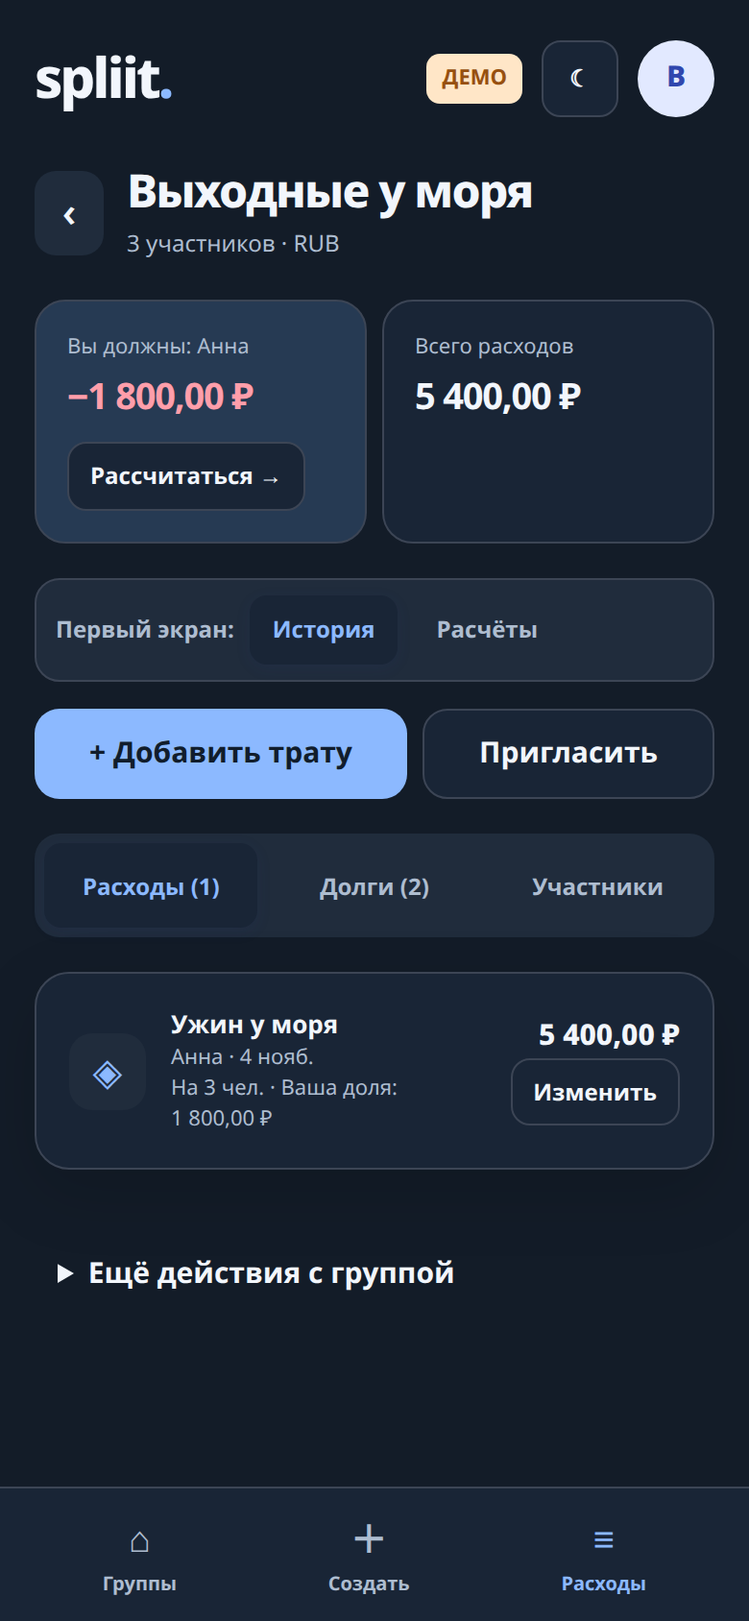
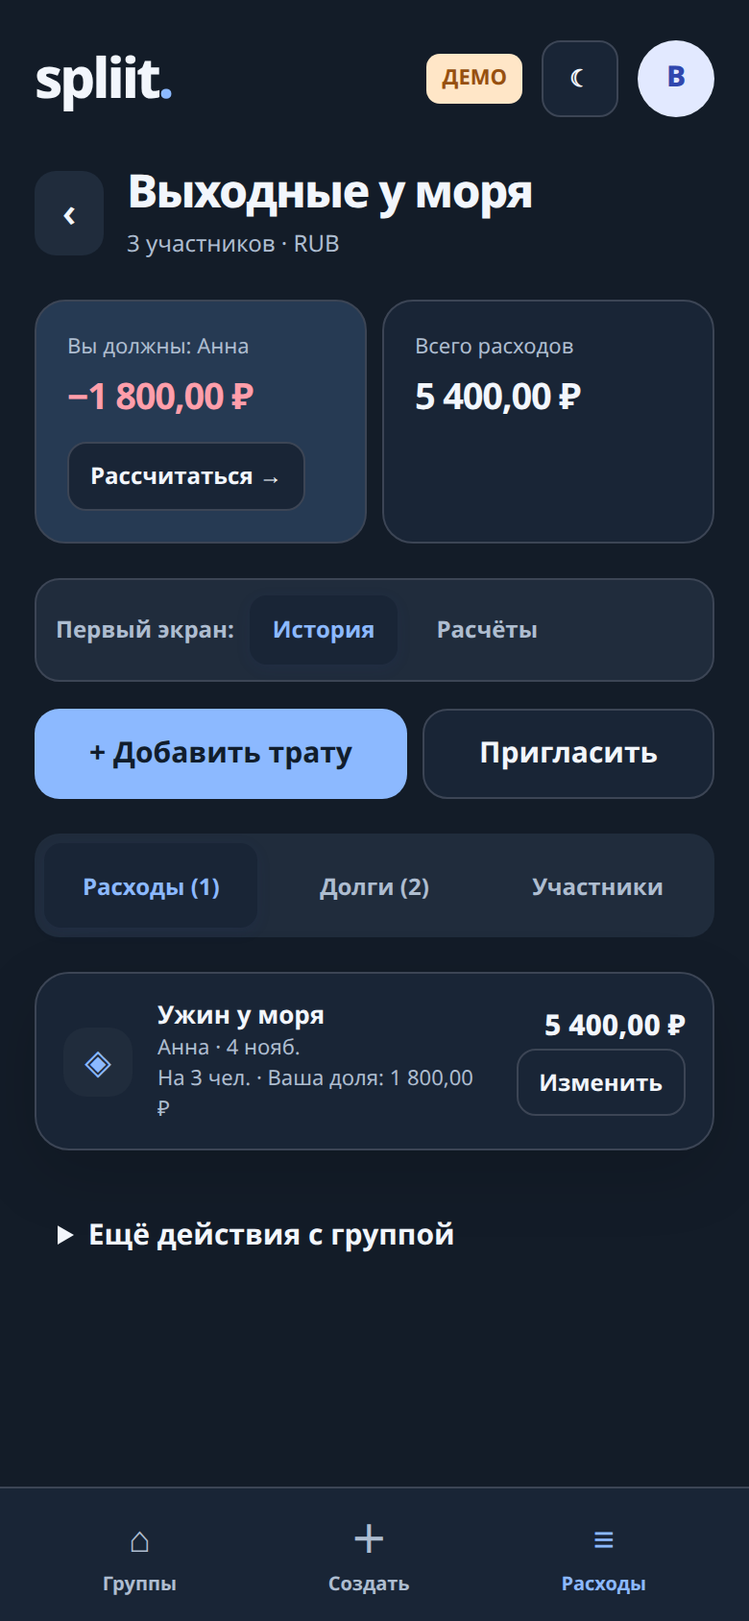
UX redesign round 4: three-screen mockup (invite hero, compact history list, modal motion)

diff --git a/web/app.js b/web/app.js
@@ -145,12 +145,12 @@ function myShare(d,e){
   return shares.find(s=>s.participantId===d.me)?.amount;
  }catch{return undefined;}
 }
-function renderExpenses(d){return d.expenses.length?`<div class="stack">${d.expenses.map(e=>{const payer=d.participants.find(p=>p.id===e.paidById)?.name||'Участник';
+function renderExpenses(d){return d.expenses.length?`<div class="expense-list">${d.expenses.map(e=>{const payer=d.participants.find(p=>p.id===e.paidById)?.name||'Участник';
  const count=(e.paidFor||[]).filter(p=>p.shares>0).length;
  let shareLine='';
  if(e.isReimbursement)shareLine='<small>Возврат долга</small>';
  else{const mine=myShare(d,e);if(mine!==undefined)shareLine=`<small>На ${count} чел. · Ваша доля: ${money(mine,d.group.currencyCode)}</small>`;}
- return `<div class="card expense"><div class="expense-icon">${e.isReimbursement?'⇄':'◈'}</div><div style="flex:1;min-width:0"><strong>${esc(e.title)}</strong><small>${esc(payer)} · ${fmtDate(e.expenseDate)}</small>${shareLine}</div><div class="amount">${money(e.amount,d.group.currencyCode)}${(e.createdByTgId===S.boot?.user?.id||d.isCreator)?`<div><button class="btn small ghost" data-action="${e.isReimbursement?'deleteExpenseDirect':'editExpense'}" data-id="${esc(e.id)}">${e.isReimbursement?'Удалить':'Изменить'}</button></div>`:''}</div></div>`}).join('')}</div>`:'<div class="card empty"><p>Расходов пока нет. Добавьте первый чек — Spleet сразу посчитает доли.</p><button class="btn primary" data-action="expense">Добавить первую трату</button></div>';}
+ return `<div class="expense expense-row"><div class="expense-icon">${e.isReimbursement?'⇄':'◈'}</div><div style="flex:1;min-width:0"><strong>${esc(e.title)}</strong><small>${esc(payer)} · ${fmtDate(e.expenseDate)}</small>${shareLine}</div><div class="amount">${money(e.amount,d.group.currencyCode)}${(e.createdByTgId===S.boot?.user?.id||d.isCreator)?`<div><button class="btn small ghost" data-action="${e.isReimbursement?'deleteExpenseDirect':'editExpense'}" data-id="${esc(e.id)}">${e.isReimbursement?'Удалить':'Изменить'}</button></div>`:''}</div></div>`}).join('')}</div>`:'<div class="card empty"><p>Расходов пока нет. Добавьте первый чек — Spleet сразу посчитает доли.</p><button class="btn primary" data-action="expense">Добавить первую трату</button></div>';}
 function renderBalances(data){
  const transfers=data.settlements||[];
  if(!transfers.length)return '<div class="card empty">Долгов нет. Все расчёты закрыты.</div>';
@@ -288,12 +288,29 @@ function viewJoin(){
  <div id="join-claim" class="field" hidden><label for="join-code">Личный код от организатора</label><input id="join-code" name="claimToken" autocomplete="off"/><p class="form-hint">Попросите у организатора код, чтобы занять своё место и сохранить уже внесённые траты.</p></div>`:''}</section>
  <button type="submit" class="btn primary full">Присоединиться к группе</button></form>`;
 }
+// Demo-only invite screen (?demoInvite=1). Synthetic data only: the group
+// name, the inviter and the "what joining means" list come from the demo
+// bootstrap, not from the server. The mesh-gradient hero is a static CSS
+// background behind the group name (paper-shaders style: cool blue with a
+// light mint tint); everything the user reads or taps sits on solid
+// surfaces. The primary action opens the real join form (viewJoin);
+// "back" dismisses the mockup for the session so it never loops.
+function viewDemoInvite(){
+ const inv=S.invitation||{};
+ const groupName=inv.groupName||'Группа';
+ const inviter=inv.inviterName||'Участник';
+ const n=D.participants.length;
+ return `<div class="mini-nav"><button class="back" data-action="demoInviteDismiss" aria-label="Назад">‹</button><div><h1 class="subheading">Приглашение</h1><div class="subtitle">${esc(groupName)}</div></div></div>
+ <section class="invite-hero-text"><div class="eyebrow">ВАС ПРИГЛАСИЛИ</div><h1 class="invite-group">${esc(groupName)}</h1><p class="invite-by">${esc(inviter)} приглашает вас вести общие расходы вместе.</p></section>
+ <section class="card invite-card"><ul class="invite-points"><li>Видеть все траты группы и кто за что заплатил</li><li>Добавлять свои чеки — доли посчитаются сами, до копейки</li><li>Рассчитываться с участниками по СБП, без лишних переводов</li></ul><div class="invite-meta"><span>${esc(inv.currencyCode||'RUB')}</span><span>${n} ${n===1?'участник':n<5?'участника':'участников'}</span></div><button class="btn primary full" type="button" data-action="join">Присоединиться к группе</button><button class="btn ghost full" type="button" data-action="demoInviteDismiss">Вернуться к своим группам</button></section>
+ <p class="fine invite-note">Вступив, вы увидите историю трат и свой баланс. Выйти из группы можно в любой момент.</p>`;
+}
 function viewPay(){return `${back('Pro для группы','30 дней · 75 Stars')}<div class="hero"><div class="eyebrow" style="color:#d4dcff">ГРУППОВОЙ ПРОПУСК</div><h2>Больше возможностей для всей компании</h2><p>Распознавание фискального QR с суммой чека и курсы валют ЦБ РФ.</p></div><div class="card"><p>Покупка активирует функции для всех участников вашей группы на 30 дней.</p><button class="btn primary full" data-action="pay">Оплатить 75 Stars</button><p class="fine">Фото-OCR пока не подключён. Сканирование QR считывает сумму и фискальные признаки, но не перечень товаров.</p></div>`;}
-function render(){document.body.classList.toggle('spliit-form-open',['expense','create','join','settings'].includes(S.page));let body='';if(S.page==='home')body=viewHome();else if(S.page==='create')body=viewCreate();else if(S.page==='group')body=viewGroup();else if(S.page==='expense')body=viewExpense();else if(S.page==='settings')body=viewSettings();else if(S.page==='invite')body=viewInvite();else if(S.page==='join')body=viewJoin();else if(S.page==='pro')body=viewPay();
+function render(){document.body.classList.toggle('spliit-form-open',['expense','create','join','settings'].includes(S.page));let body='';if(S.page==='home')body=viewHome();else if(S.page==='create')body=viewCreate();else if(S.page==='group')body=viewGroup();else if(S.page==='expense')body=viewExpense();else if(S.page==='settings')body=viewSettings();else if(S.page==='invite')body=viewInvite();else if(S.page==='join')body=viewJoin();else if(S.page==='demoInvite')body=viewDemoInvite();else if(S.page==='pro')body=viewPay();
  const screen=S.page==='group'?`group:${S.groupId}`:S.page;
  const moved=renderedScreen!==screen;
  renderedScreen=screen;
- root.innerHTML=`<main class="page">${header()}${body}</main>${bottom()}${S.notice?`<div role="alert" class="toast ${S.notice.bad?'error':''}">${esc(S.notice.msg)}${S.notice.bad?'<span class="toast-close" aria-hidden="true">✕</span>':''}</div>`:''}`;
+ root.innerHTML=`<main class="page${S.page==='demoInvite'?' invite-screen':''}">${header()}${body}</main>${bottom()}${S.notice?`<div role="alert" class="toast ${S.notice.bad?'error':''}">${esc(S.notice.msg)}${S.notice.bad?'<span class="toast-close" aria-hidden="true">✕</span>':''}</div>`:''}`;
  document.querySelectorAll('button').forEach(x=>x.disabled=!!S.loading);
  window.__spliitEnhancements?.render?.();
  updateExpensePreview();
@@ -303,7 +320,7 @@ function render(){document.body.classList.toggle('spliit-form-open',['expense','
   if(title){title.tabIndex=-1;title.focus({preventScroll:true});}
  }
 }
-async function loadHome(){const start=tg?.initDataUnsafe?.start_param||new URLSearchParams(location.search).get('startapp')||'';S.boot=await call('bootstrap',{startParam:start});S.homeLoadFailed=false;S.invitation=S.boot.invitation;S.inviteUnavailable=start.startsWith('inv_')&&!S.invitation;S.page='home';render();}
+async function loadHome(){const start=tg?.initDataUnsafe?.start_param||new URLSearchParams(location.search).get('startapp')||'';S.boot=await call('bootstrap',{startParam:start});S.homeLoadFailed=false;S.invitation=S.boot.invitation;S.inviteUnavailable=start.startsWith('inv_')&&!S.invitation;S.page=S.invitation?.demoInvite&&!S.demoInviteDismissed&&S.groupId!=='demo'?'demoInvite':'home';render();}
 async function openGroup(id){S.groupId=id;S.group=await call('group_get',{groupId:id});S.saveConfirmed=null;await refreshPending();S.page='group';S.tab=S.entryMode==='settlements'?'balances':'expenses';if(!S.loading)render();}
 function formData(id){return new FormData(document.getElementById(id));}
 function expensePayload(){const f=formData('expense-form'),mode=f.get('splitMode'),ids=f.getAll('participant');if(!ids.length)throw Error('Выберите хотя бы одного участника');const paidFor=ids.map(id=>{let shares=1;if(mode!=='EVENLY'){const raw=String(f.get(`weight_${id}`)||'0').replace(',','.');if(!/^\d+(\.\d{1,2})?$/.test(raw))throw Error('Некорректная доля');shares=mode==='BY_SHARES'?Number(raw):Math.round(Number(raw)*100);}return {participantId:id,shares};});const payload={groupId:S.groupId,expenseId:S.edit?.id||S.newExpenseId,title:String(f.get('title')),amount:amountInt(f.get('amount')),paidById:String(f.get('paidById')),splitMode:mode,paidFor,categoryId:Number(f.get('categoryId')||0),notes:String(f.get('notes')||'')};
@@ -474,6 +491,7 @@ root.addEventListener('click',e=>{const b=e.target.closest('[data-action]');if(!
  if(action==='settle'){openSettleModal({to:b.dataset.to,amount:Number(b.dataset.amount),opener:b});return;}
  if(action==='remind'){if(!confirm('Напомнить участнику о долге в личном сообщении Telegram? Не чаще одного раза в 24 часа.'))return;await call('remind_debt',{groupId:S.groupId,debtorId:b.dataset.debtor});toast('Напоминание отправлено');return;}
  if(action==='join'){S.page='join';return;}
+ if(action==='demoInviteDismiss'){S.demoInviteDismissed=true;S.invitation=null;S.page='home';return;}
  if(action==='invite'){S.page='invite';return;}
  if(action==='share'){const link=configLink(S.group.group.inviteToken);if(!link)throw Error('Ссылка не настроена');if(tg?.openTelegramLink)tg.openTelegramLink(`https://t.me/share/url?url=${encodeURIComponent(link)}`);else await navigator.clipboard.writeText(link);return;}
  if(action==='settings'){S.page='settings';return;}
@@ -585,6 +603,10 @@ const D={group:{id:'demo',name:'Выходные у моря',currencyCode:'RUB'
 // They make the lost-response and stale-list cases reproducible in the
 // browser demo. Never active outside the demo (demoCall only runs there).
 const demoFailParams=new URLSearchParams(location.search);
+// Demo-only invite mockup (?demoInvite=1): the demo bootstrap returns a
+// synthetic invitation so the invite screen can be shown without Telegram.
+// Real invite/join logic is untouched.
+const demoInvite=demoFailParams.get('demoInvite')==='1';
 let demoFailLostExpense=demoFailParams.get('demoFail')==='lostExpense';
 let demoFailRefreshPending=demoFailParams.get('demoFail')==='refreshFail';
 let demoFailRefreshArmed=false;
@@ -596,7 +618,7 @@ function demoView(){const totals=Object.fromEntries(D.participants.map(x=>[x.id,
  const shares=splitExpense({id:e.id,amount:e.amount,splitMode:e.splitMode,paidFor:e.paidFor});
  for(const s of shares)totals[s.participantId].paidFor+=s.amount;
 }for(const x of Object.values(totals))x.total=x.paid-x.paidFor;const debts=Object.entries(totals).map(([id,v])=>({id,total:v.total})).filter(x=>x.total<0),credits=Object.entries(totals).map(([id,v])=>({id,total:v.total})).filter(x=>x.total>0),transfers=[];for(const debt of debts)for(const credit of credits){const amount=Math.min(-debt.total,credit.total);if(amount>0){transfers.push({from:debt.id,to:credit.id,amount});debt.total+=amount;credit.total-=amount;}}return {group:{...D.group},me:'a',isCreator:true,participants:D.participants,expenses:[...D.expenses].reverse(),balances:totals,settlements:transfers,activities:[]};}
-async function demoCall(name,p){if(name==='bootstrap')return {user:{id:1,name:'Вы'},groups:[{id:D.group.id,name:D.group.name,currencyCode:D.group.currencyCode}],invitation:null,features:{betaFree:true,billingEnabled:false}};if(name==='group_get'){if(demoFailRefreshArmed){demoFailRefreshArmed=false;throw demoNetworkError();}return demoView();}if(name==='group_create'){D.group={id:'demo',name:p.name,currencyCode:p.currencyCode,information:p.information,inviteToken:'demo_inv',proUntil:0};D.participants=[{id:'a',name:'Вы',tgUserId:1},...p.participants.map((name,i)=>({id:'p'+i,name,tgUserId:null,claimToken:'demo'}))];D.expenses=[];return {groupId:'demo'};}if(name==='expense_upsert'){const id=p.expenseId||'exp_'+(''+Math.random()).replace('0.','').padEnd(36,'0');
+async function demoCall(name,p){if(name==='bootstrap')return {user:{id:1,name:'Вы'},groups:[{id:D.group.id,name:D.group.name,currencyCode:D.group.currencyCode}],invitation:demoInvite?{groupName:D.group.name,groupId:'demo',currencyCode:D.group.currencyCode,inviterName:'Анна',alreadyMember:false,demoInvite:true,unclaimed:[]}:null,features:{betaFree:true,billingEnabled:false}};if(name==='group_get'){if(demoFailRefreshArmed){demoFailRefreshArmed=false;throw demoNetworkError();}return demoView();}if(name==='group_create'){D.group={id:'demo',name:p.name,currencyCode:p.currencyCode,information:p.information,inviteToken:'demo_inv',proUntil:0};D.participants=[{id:'a',name:'Вы',tgUserId:1},...p.participants.map((name,i)=>({id:'p'+i,name,tgUserId:null,claimToken:'demo'}))];D.expenses=[];return {groupId:'demo'};}if(name==='expense_upsert'){const id=p.expenseId||'exp_'+(''+Math.random()).replace('0.','').padEnd(36,'0');
   // Validate the split BEFORE touching demo data: invalid manual
   // amounts/percentages are rejected, history and balances stay unchanged.
   splitExpense({id,amount:p.amount,splitMode:p.splitMode,paidFor:p.paidFor});

diff --git a/web/style.css b/web/style.css
@@ -146,3 +146,31 @@ h1[tabindex='-1']:focus { outline: none; }
 .save-status .actions{margin-top:10px}
 .spliit-kb-open .footbar{display:none}
 .spliit-kb-open .page{padding-bottom:calc(32px + env(safe-area-inset-bottom,0px))}
+
+/* Round 4: three-screen mockup — compact history list (Kobbe), invite hero,
+   settle modal motion. */
+.amount{font-variant-numeric:tabular-nums}
+.allocation-preview li strong{font-variant-numeric:tabular-nums}
+.expense-list{background:var(--white);border:1px solid var(--border);border-radius:var(--r);box-shadow:var(--shadow);overflow:hidden}
+.expense-list .expense{margin-bottom:0;padding:12px 14px}
+.expense-list .expense+.expense{border-top:1px solid var(--border)}
+.expense-list .expense-icon{width:36px;height:36px;font-size:18px}
+.btn{transition:filter .13s,transform .1s}
+.btn:active{transform:scale(.98);filter:brightness(.94)}
+@keyframes settle-in{from{opacity:0}to{opacity:1}}
+@keyframes settle-panel-in{from{opacity:0;transform:translateY(10px) scale(.985)}to{opacity:1;transform:none}}
+.settle-modal{animation:settle-in .18s ease-out}
+.settle-modal .advanced-panel{animation:settle-panel-in .18s ease-out}
+@media (prefers-reduced-motion:reduce){.settle-modal,.settle-modal .advanced-panel{animation:none}.btn{transition:none}}
+.invite-screen{background:radial-gradient(120% 70% at 12% 0%,#cfe0ff 0%,transparent 55%),radial-gradient(90% 60% at 92% 8%,#c8f2e0 0%,transparent 55%),radial-gradient(130% 90% at 50% 115%,#e6efff 0%,transparent 60%),linear-gradient(180deg,#f3f7ff,#eef3fb)}
+.tg-dark .invite-screen{background:radial-gradient(120% 70% at 12% 0%,#1d3355 0%,transparent 55%),radial-gradient(90% 60% at 92% 8%,#173a30 0%,transparent 55%),radial-gradient(130% 90% at 50% 115%,#16283f 0%,transparent 60%),linear-gradient(180deg,#131c28,#101825)}
+.invite-hero-text{padding:14px 2px 20px}
+.invite-group{font-size:31px;line-height:1.13;letter-spacing:-1.2px;margin:10px 0 8px}
+.invite-by{margin:0;color:var(--muted);font-size:14px}
+.invite-card{display:grid;gap:14px}
+.invite-points{list-style:none;margin:0;padding:0;display:grid;gap:10px}
+.invite-points li{display:flex;gap:10px;font-size:14px;line-height:1.45}
+.invite-points li::before{content:'✓';color:var(--good);font-weight:800;flex:none}
+.invite-meta{display:flex;gap:8px;flex-wrap:wrap}
+.invite-meta span{background:var(--app-soft);border-radius:99px;padding:5px 11px;font-size:12px;font-weight:750;color:var(--muted)}
+.invite-note{text-align:center}

diff --git a/web/native-ux.js b/web/native-ux.js
@@ -41,7 +41,7 @@ export function installNativeUX({S,closeTopModal}){
  function syncBackButton(){
   try{
    const B=T?.BackButton;if(!B)return;
-   const nested=['group','create','expense','join','invite','settings','pro'].includes(S.page);
+   const nested=['group','create','expense','join','invite','settings','pro','demoInvite'].includes(S.page);
    if(nested){
     if(!backBound){B.onClick?.(()=>{if(typeof closeTopModal==='function'&&closeTopModal())return;root.querySelector('.back')?.click();});backBound=true;}
     B.show?.();

diff --git a/docs/ux-redesign/README.md b/docs/ux-redesign/README.md
@@ -386,3 +386,118 @@ Mini App, группа «Выходные у моря»):
   имя/место уже состоящего участника) по-прежнему не доделывалась
   (см. второй заход). Тексты бота не переносились — не этот
   репозиторий.
+
+## Четвёртый заход — макет трёх экранов одной тестовой группы
+
+Выбор Mark 2026-11-05 ~14:29 (по второму мнению из разбора GradientDeck /
+upload.md): один макет на трёх экранах — (1) приглашение, (2) история с
+личным балансом, (3) окно возврата — и сравнение до/после на 320 и 390 px
+в светлой и тёмной теме. Референсы: Kobbe (тёплый нейтральный фон, тонкие
+разделители), Mollie (крупная сумма, короткая подпись), паттерны shadcn
+Empty / Alert Dialog, статичный mesh-градиент в духе paper-design/shaders.
+Денежная логика не тронута: `splitExpense`, `settlement-recovery.js`,
+`expense_upsert` и все поведения заходов 1–3 — как были.
+
+### 1. Приглашение — демо-макет (`?demoInvite=1`)
+
+В демо экран вступления невоспроизводим (`bootstrap` возвращает
+`invitation: null` — см. «Что не воспроизводится в демо»), поэтому макет
+построен как демо-путь с синтетическими данными, а не как настоящий
+join-поток: флаг `?demoInvite=1` заставляет демо-`bootstrap` вернуть
+приглашение («Выходные у моря», приглашает Анна, RUB, 3 участника);
+настоящие `viewJoin` / `participant_sync` не менялись. Экран:
+mesh-градиент (статичный CSS, холодный синий + лёгкая мята за названием
+группы; в тёмной теме — тёмные варианты тех же пятен), имя группы крупным
+кеглем, кто приглашает, три строки «что даёт вступление» и одно очевидное
+действие — «Присоединиться к группе» (открывает настоящую форму
+вступления). Всё, что читается и нажимается, — на сплошных поверхностях
+(белая карточка). «Назад» / «Вернуться к своим группам» — на список групп
+без зацикливания (флаг на сессию + не показывать приглашение после
+вступления). В Telegram `BackButton` на этом экране показывается
+(`native-ux.js`: `demoInvite` в списке вложенных экранов).
+
+### 2. История — компактный список вместо карточек (Kobbe)
+
+`renderExpenses` теперь рисует `.expense-list`: один контейнер с тонкой
+границей и тенью, внутри строки `.expense` с разделителем 1 px между
+соседними, плотнее (padding 12 px вместо 17 px у карточек, иконка 36 px
+вместо 40 px). Карточки остаются там, где им место: сводка баланса,
+важные состояния и пустая группа (`«Расходов пока нет…»` — по-прежнему
+карточка с кнопкой «Добавить первую трату»). Сохранено всё из заходов
+1–3: история — первый экран (вариант A), переключатель B, «Ваша доля»,
+контрольная строка, сводка «Вы должны −1 800,00 ₽ · 2 перевода», вкладки
+со счётчиками. **Исправлен пробел из разбора DESIGN.md:** у сумм истории
+не было `tabular-nums` (был только у долгов, метрик, поля ввода и
+модалки) — теперь `.amount` и доли в превью (`#allocation-preview li
+strong`) тоже с `tabular-nums`, суммы выровнены справа.
+
+### 3. Окно возврата — только движение
+
+Поведение 3-го захода не тронуто (стек «Назад», фокус на открыватель,
+Back/Esc/Отмена без записи, контракт `settlement-recovery.js`). Добавлено
+только: короткий отклик на нажатие у всех кнопок (`:active` —
+`scale(.98)`, 0,1 с) и плавное появление диалога (оверлей — fade 0,18 с,
+панель — подъём на 10 px + fade 0,18 с). При `prefers-reduced-motion`
+анимации отключены.
+
+### Скриншоты четвёртого захода
+
+Матрица `37`–`39` (имена в `before/` и `after/` совпадают):
+`37-invite` — до = прежняя форма вступления (код не менялся в этом
+заходе; нового экрана приглашения раньше не было), после = hero-макет;
+`38-history` — до = стопка карточек (снято со сборки 3-го захода),
+после = компактный список; `39-settle-modal` — до/после модалки.
+Каждый — 320/390 px × светлая/тёмная. Дополнительно:
+`38-history-two-390-light` — список из двух трат, виден разделитель;
+`40-tg-dark-invite-390`, `41-tg-dark-history-390`, `42-tg-dark-modal-390`
+— тёмная тема через `themeParams` Telegram (имитация, а не переключатель
+демо). Регрессия заходов 2–3 пересохранила кадры `03`, `04`, `09`, `12`,
+`13`, `21`, `29`, `31`, `34`, `36` — те же сцены, изменения только от
+компактного списка и `tabular-nums`.
+
+### Проверки четвёртого захода
+
+```bash
+# сервер (из корня репозитория, после npm run build):
+python -m http.server 8000 --bind 127.0.0.1 --directory dist
+# из ~/workspace/spleet-shots/ (Chromium headless shell 1187):
+node shots-round4-before.mjs  # до-кадры 38/39 со сборки 3-го захода (до правок)
+node shots-round4.mjs         # демо-слой: 37/37
+node shots-round4-tg.mjs      # имитация Telegram: 14/14
+node shots-round3.mjs         # регрессия захода 3 (демо): 35/35
+node shots-round3-tg.mjs      # регрессия захода 3 (Telegram): 21/21
+node shots-round2.mjs         # регрессия заходов 1–2: 34/34
+```
+
+Ожидаемые результаты: `37` — hero с именем группы, именем приглашающей
+(«Анна приглашает»), тремя пунктами, одной primary-кнопкой; фон —
+mesh-градиент (≥2 `radial-gradient`), карточка — сплошная (`background-image:
+none`) в обеих темах; без флага демо обычное; «Присоединиться» открывает
+форму вступления, «Вернуться» — список групп; `38` — `.expense-list`,
+разделитель `1px solid` между строками, padding 12 px, суммы
+`tabular-nums` и справа, баланс −1 800,00 ₽ не изменился, пустая группа —
+карточка; `39` — анимации `settle-in` / `settle-panel-in` при открытии,
+нажатие даёт `scale(.98)` и отпускается без записи, модалка остаётся
+открытой; `40`–`42` — тёмная тема через `themeParams` на всех трёх
+экранах, Back в Telegram закрывает модалку первым (фокус на открыватель,
+вкладка «Долги», записи нет). В каждом прогоне единственная ошибка
+консоли — 404 `/favicon.ico` (было и до). Попутно: сохранённый
+`shots-round3.mjs` не запускался — в нём не хватало импорта `dirname`
+(исправлен импорт, код проверок не менялся); при первой проверке
+`38`/`39` упали по вине самих проверок (NBSP в суммах, `matrix(1,…)` как
+финальное состояние transform) — код был верен, проверки поправлены.
+
+### Что честно не сделано в четвёртом заходе
+
+- Реальный WebView не проверялся (нет телефона в этой сессии) — см.
+  шаги ручной проверки в третьем заходе. Тёмная тема проверена двумя
+  путями (переключатель демо и `themeParams` в имитации), но не в
+  реальном Telegram.
+- Экран приглашения — демо-макет с синтетическими данными, а не
+  настоящий join-поток: реальное вступление по ссылке из Telegram
+  (включая просрочку и уже-состоящего участника) в демо по-прежнему
+  невоспроизводимо.
+- Mesh-градиент — статичная CSS-аппроксимация в духе paper-shaders,
+  а не сам шейдер: живых переливов и WebGL нет и не планируется.
+- Строка 6 аудита второго мнения (имя/место уже состоящего участника)
+  по-прежнему не доделывалась. Тексты бота не переносились.
